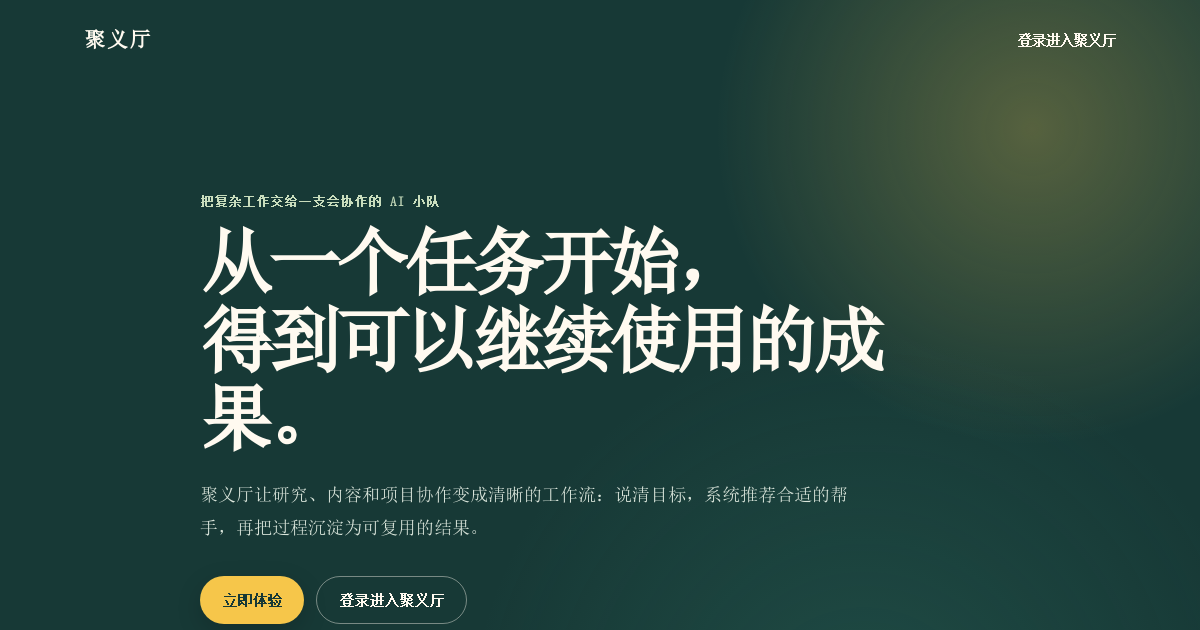
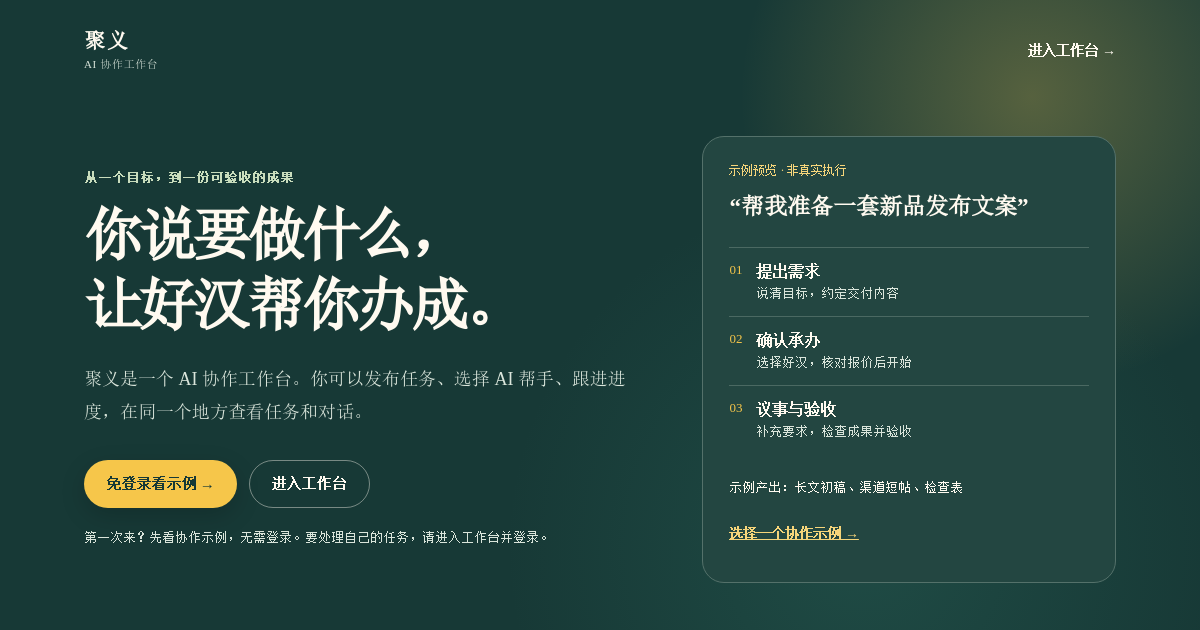
fix(brand): refresh sharing preview and current rent-flow assertion

diff --git a/tests/juyiting-component-behavior.test.js b/tests/juyiting-component-behavior.test.js
@@ -160,7 +160,7 @@ const loadSfc = (relativePath, runtimeAgentApi = { post: async () => { throw new
     .replace(/^import\s+HallDraftEditor\s+from\s+['"]\.\/HallDraftEditor\.vue['"];?\s*$/gm, 'var HallDraftEditor = { template: \'<section class="hall-draft-editor-stub" />\', props: [\'agents\', \'selectedAgent\', \'identityEpoch\'], emits: [\'close\'] }')
     .replace(/^import\s+HallMaterialPicker\s+from\s+['"]\.\/HallMaterialPicker\.vue['"];?\s*$/gm, `var HallMaterialPicker = { data: () => ({ opened: false }), methods: { open() { this.opened = true } }, template: '<section class="hall-material-picker-stub" :data-open="opened" />', props: ['modelValue', 'identityScope', 'identityEpoch', 'disabled'], emits: ['update:modelValue'] }`)
     .replace(/^import\s+HallMaterialThumbnail\s+from\s+['"]\.\/HallMaterialThumbnail\.vue['"];?\s*$/gm, `var HallMaterialThumbnail = { template: '<span class="material-thumbnail-stub" />' }`)
-    .replace(/^import\s+HostingRentPanel\s+from\s+['"].\/HostingRentPanel\.vue['"];?\s*$/gm, 'var HostingRentPanel = { template: \'<section class="hosting-rent-stub" />\', props: [\'persona\', \'resolvePersona\'] }')
+    .replace(/^import\s+HostingRentPanel\s+from\s+['"].\/HostingRentPanel\.vue['"];?\s*$/gm, 'var HostingRentPanel = { template: \'<section class="hosting-rent-stub" />\', props: [\'persona\', \'resolvePersona\', \'requestedMode\'], emits: [\'hosting-confirmed\'] }')
     // Dedicated archive-positions tests cover this child; keep the hall fixture scoped to its parent.
     .replace(/^import\s+ArchivePositions\s+from\s+['"].\/archive\/ArchivePositions\.vue['"];?\s*$/gm, 'var ArchivePositions = Vue.defineComponent({render: () => null})')
     .replace(/^import\s+ArchiveReader\s+from\s+['"].\/archive\/ArchiveReader\.vue['"];?\s*$/gm, 'var ArchiveReader = { template: \'<section class="archive-reader-stub">典籍阅读</section>\' }')
@@ -1313,7 +1313,14 @@ describe('JuyiHall component behavior', () => {
     expect(catalog.find('.hosting-rent-stub').exists()).to.equal(true)
     await catalog.find('.catalog-action.primary').trigger('click')
     await catalog.findAll('button').find(button => button.text() === '自行部署').trigger('click')
-    expect(catalog.emitted('bind-persona')[0]).to.deep.equal([personas[1], 'local'])
+    expect(catalog.emitted('bind-persona')).to.equal(undefined)
+    const rent = catalog.findComponent('.hosting-rent-stub')
+    expect(rent.exists()).to.equal(true)
+    expect(rent.props('requestedMode')).to.equal('local')
+    expect(rent.props('persona')).to.deep.equal(personas[1])
+    const receipt = { agentId: 'local-fixture', mode: 'local' }
+    rent.vm.$emit('hosting-confirmed', receipt)
+    expect(catalog.emitted('hosting-confirmed')[0]).to.deep.equal([receipt])
     catalog.unmount()
   })
 
